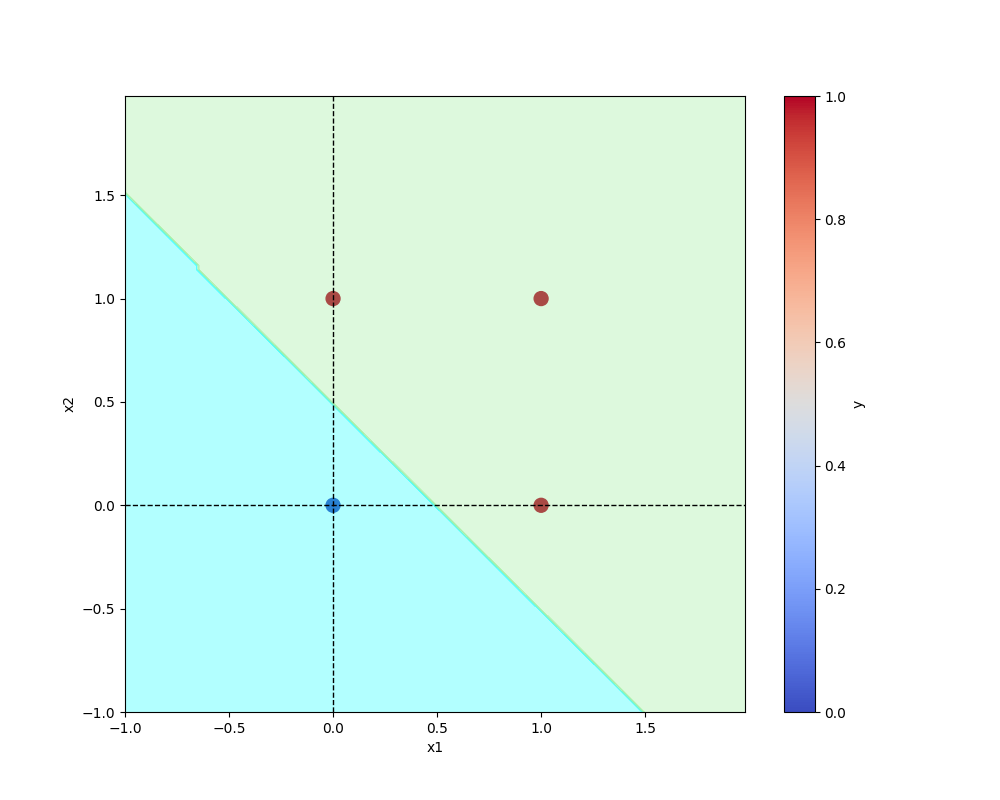
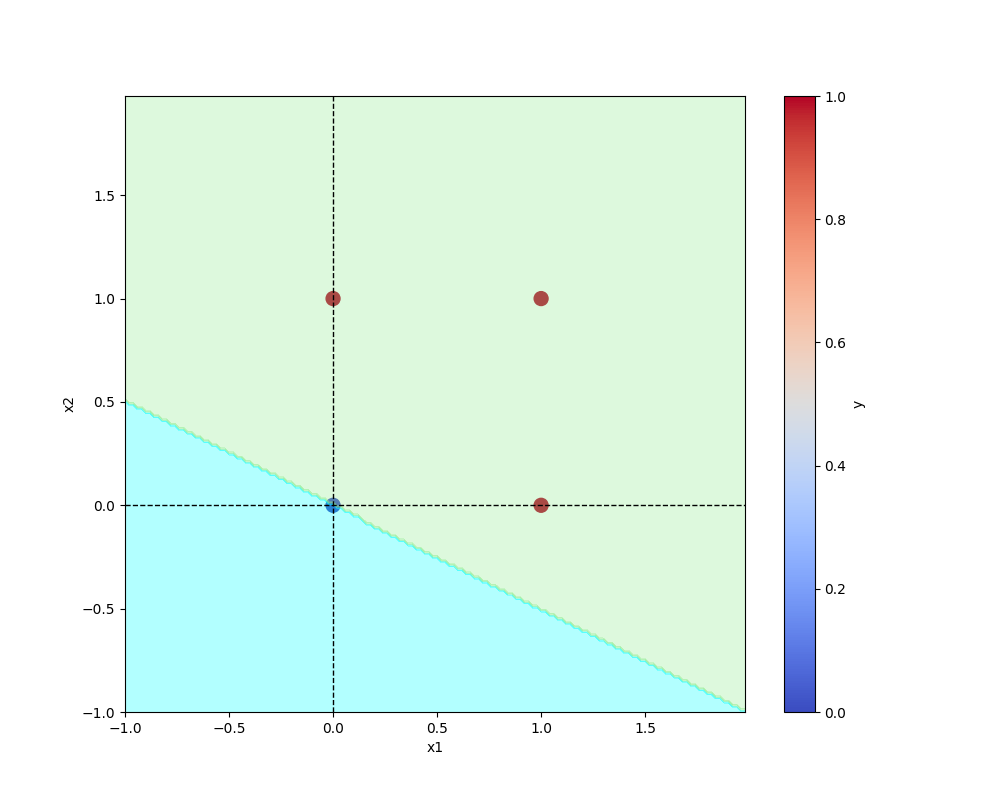
Logging Module added

Changed region(s): [[0.124, 0.25, 0.527, 0.75], [0.558, 0.7812, 0.744, 0.9062], [0.527, 0.75, 0.558, 0.7812]]

diff --git a/utils/model.py b/utils/model.py
@@ -2,6 +2,7 @@ import numpy as np
 import pandas as pd
 import os
 import joblib
+import logging
 
 
 
@@ -11,7 +12,7 @@ class Perceptron():
         self.weights = np.random.randn(3) * 1e-4
         training = (eta is not None) and (epochs is not None)
         if training:
-            print(f"initial weigths before training: \n{self.weights}")
+            logging.info(f"initial weigths before training: \n{self.weights}")
             self.eta = eta
             self.epochs = epochs
     
@@ -26,23 +27,23 @@ class Perceptron():
         self.y = y
         
         X_with_bias = np.c_[self.X, -np.ones((len(self.X),1))]
-        print(f"X with bias: \n {X_with_bias}")
+        logging.info(f"X with bias: \n {X_with_bias}")
         
         for epoch in range(self.epochs):
-            print("--"*10)
-            print(f"for epoch >> {epoch+1}")
-            print("--"*10)
+            logging.info("--"*10)
+            logging.info(f"for epoch >> {epoch+1}")
+            logging.info("--"*10)
             
             z = self._z_outcome(X_with_bias, self.weights)
             y_hat = self.activation_function(z)
-            print(f"Predicted value after forward pass: \n{y_hat} ")
+            logging.info(f"Predicted value after forward pass: \n{y_hat} ")
             
             self.error = self.y - y_hat
-            print(f"error: \n{self.error}")
+            logging.info(f"error: \n{ self.error }")
             
             self.weights = self.weights + self.eta*np.dot(X_with_bias.T, self.error)
-            print(f"Updated weigths after epoch: {epoch+1}/{self.epochs}: \n{self.weights}")
-            print("##"*10)
+            logging.info(f"Updated weigths after epoch: {epoch+1}/{self.epochs}: \n{self.weights}")
+            logging.info("##"*10)
         
     def predict(self, X):
         X_with_bias = np.c_[X, -np.ones((len(X), 1))]
@@ -51,7 +52,7 @@ class Perceptron():
              
     def total_loss(self):
         total_loss = np.sum(self.error)
-        print(f"\n total loss:{total_loss}\n")
+        logging.info(f"\n total loss:{total_loss}\n")
         return total_loss
     
     def _create_dir_return_path(self,model_dir, filename):
@@ -70,3 +71,4 @@ class Perceptron():
         else:
             model_file_path = self._create_dir_return_path("model",filename)
             joblib.dump(self,model_file_path)
+        logging.info(f"Model saved at: {model_file_path}")

diff --git a/and.py b/and.py
@@ -1,11 +1,11 @@
 from utils.all_utils import prepare_data, save_plot
 from utils.model import Perceptron
 import pandas as pd
-import os
 import logging
+import os
 
 log_dir = "logs"
-gate = "OR Gate"
+gate = "AND Gate"
 os.makedirs(log_dir,exist_ok=True)
 
 logging.basicConfig(
@@ -17,10 +17,11 @@ logging.basicConfig(
 
 
 
+
 def main(data, modelName, plotName, eta, epochs):
-    df_OR = pd.DataFrame(data)
-    logging.info(f"This is the raw dataset:\n {df_OR}")
-    X, y = prepare_data(df_OR)
+    df_AND = pd.DataFrame(data)
+    logging.info(f"This is the raw dataset:\n {df_AND}")
+    X, y = prepare_data(df_AND)
 
     model = Perceptron(eta=eta, epochs=epochs)
     model.fit(X, y)
@@ -28,20 +29,26 @@ def main(data, modelName, plotName, eta, epochs):
     _ = model.total_loss()
 
     model.save(filename=modelName, model_dir="model")
-    save_plot(df_OR, model, filename=plotName)
+    save_plot(df_AND, model, filename=plotName)
+
 
 if __name__ == "__main__":
-    OR = {
-        "x1": [0,0,1,1],
-        "x2": [0,1,0,1],
-        "y" : [0,1,1,1]
+    AND = {
+    "x1": [0,0,1,1],
+    "x2": [0,1,0,1],
+    "y" : [0,0,0,1]
     }
-    ETA = 0.3
+
+    ETA = 0.02
     EPOCHS = 10
+    
     try:
         logging.info(f">>>>>>Starting Training For {gate}<<<<<<<<")
-        main(data=OR, modelName="or.model", plotName="or.png", eta=ETA, epochs=EPOCHS)
-        logging.info(f">>>>>>>>Done Training for {gate}<<<<<<<<<<\n\n")  
+        main(data=AND, modelName="and.model", plotName="and.png", eta=ETA, epochs=EPOCHS)
+        logging.info(f">>>>>>>>Done Training for {gate}<<<<<<<<<<\n\n") 
     except Exception as e:
         logging.exception(e)
         raise e
+
+
+    

diff --git a/utils/all_utils.py b/utils/all_utils.py
@@ -4,13 +4,17 @@ import os
 from matplotlib.colors import ListedColormap
 import numpy as np
 
+import logging
+
 def prepare_data(df,target_col="y"):
+    logging.info("Preparing Data for Training")
     X = df.drop(target_col,axis=1)
     y = df[target_col]
     return X, y
 
 def save_plot(df, model, filename="plot.png", plot_dir="plots"):
     def _create_base_plot(df):
+        logging.info("Creating the Base Plot")
         df.plot(kind="scatter", x="x1", y="x2", c="y", s=100, cmap="coolwarm")
         plt.axhline(y=0, color="black", linestyle="--", linewidth=1)
         plt.axvline(x=0, color="black", linestyle="--", linewidth=1)
@@ -19,6 +23,7 @@ def save_plot(df, model, filename="plot.png", plot_dir="plots"):
         figure.set_size_inches(10, 8)
     
     def _plot_decision_regions(X, y, classifier, resolution=0.02):
+        logging.info("Plotting the decision regions")
         colors = ("cyan", "lightgreen")
         cmap = ListedColormap(colors)
         
@@ -49,3 +54,4 @@ def save_plot(df, model, filename="plot.png", plot_dir="plots"):
     os.makedirs(plot_dir, exist_ok=True)
     plot_path = os.path.join(plot_dir, filename)
     plt.savefig(plot_path)
+    logging.info(f"Saving the plot at {plot_path}")
